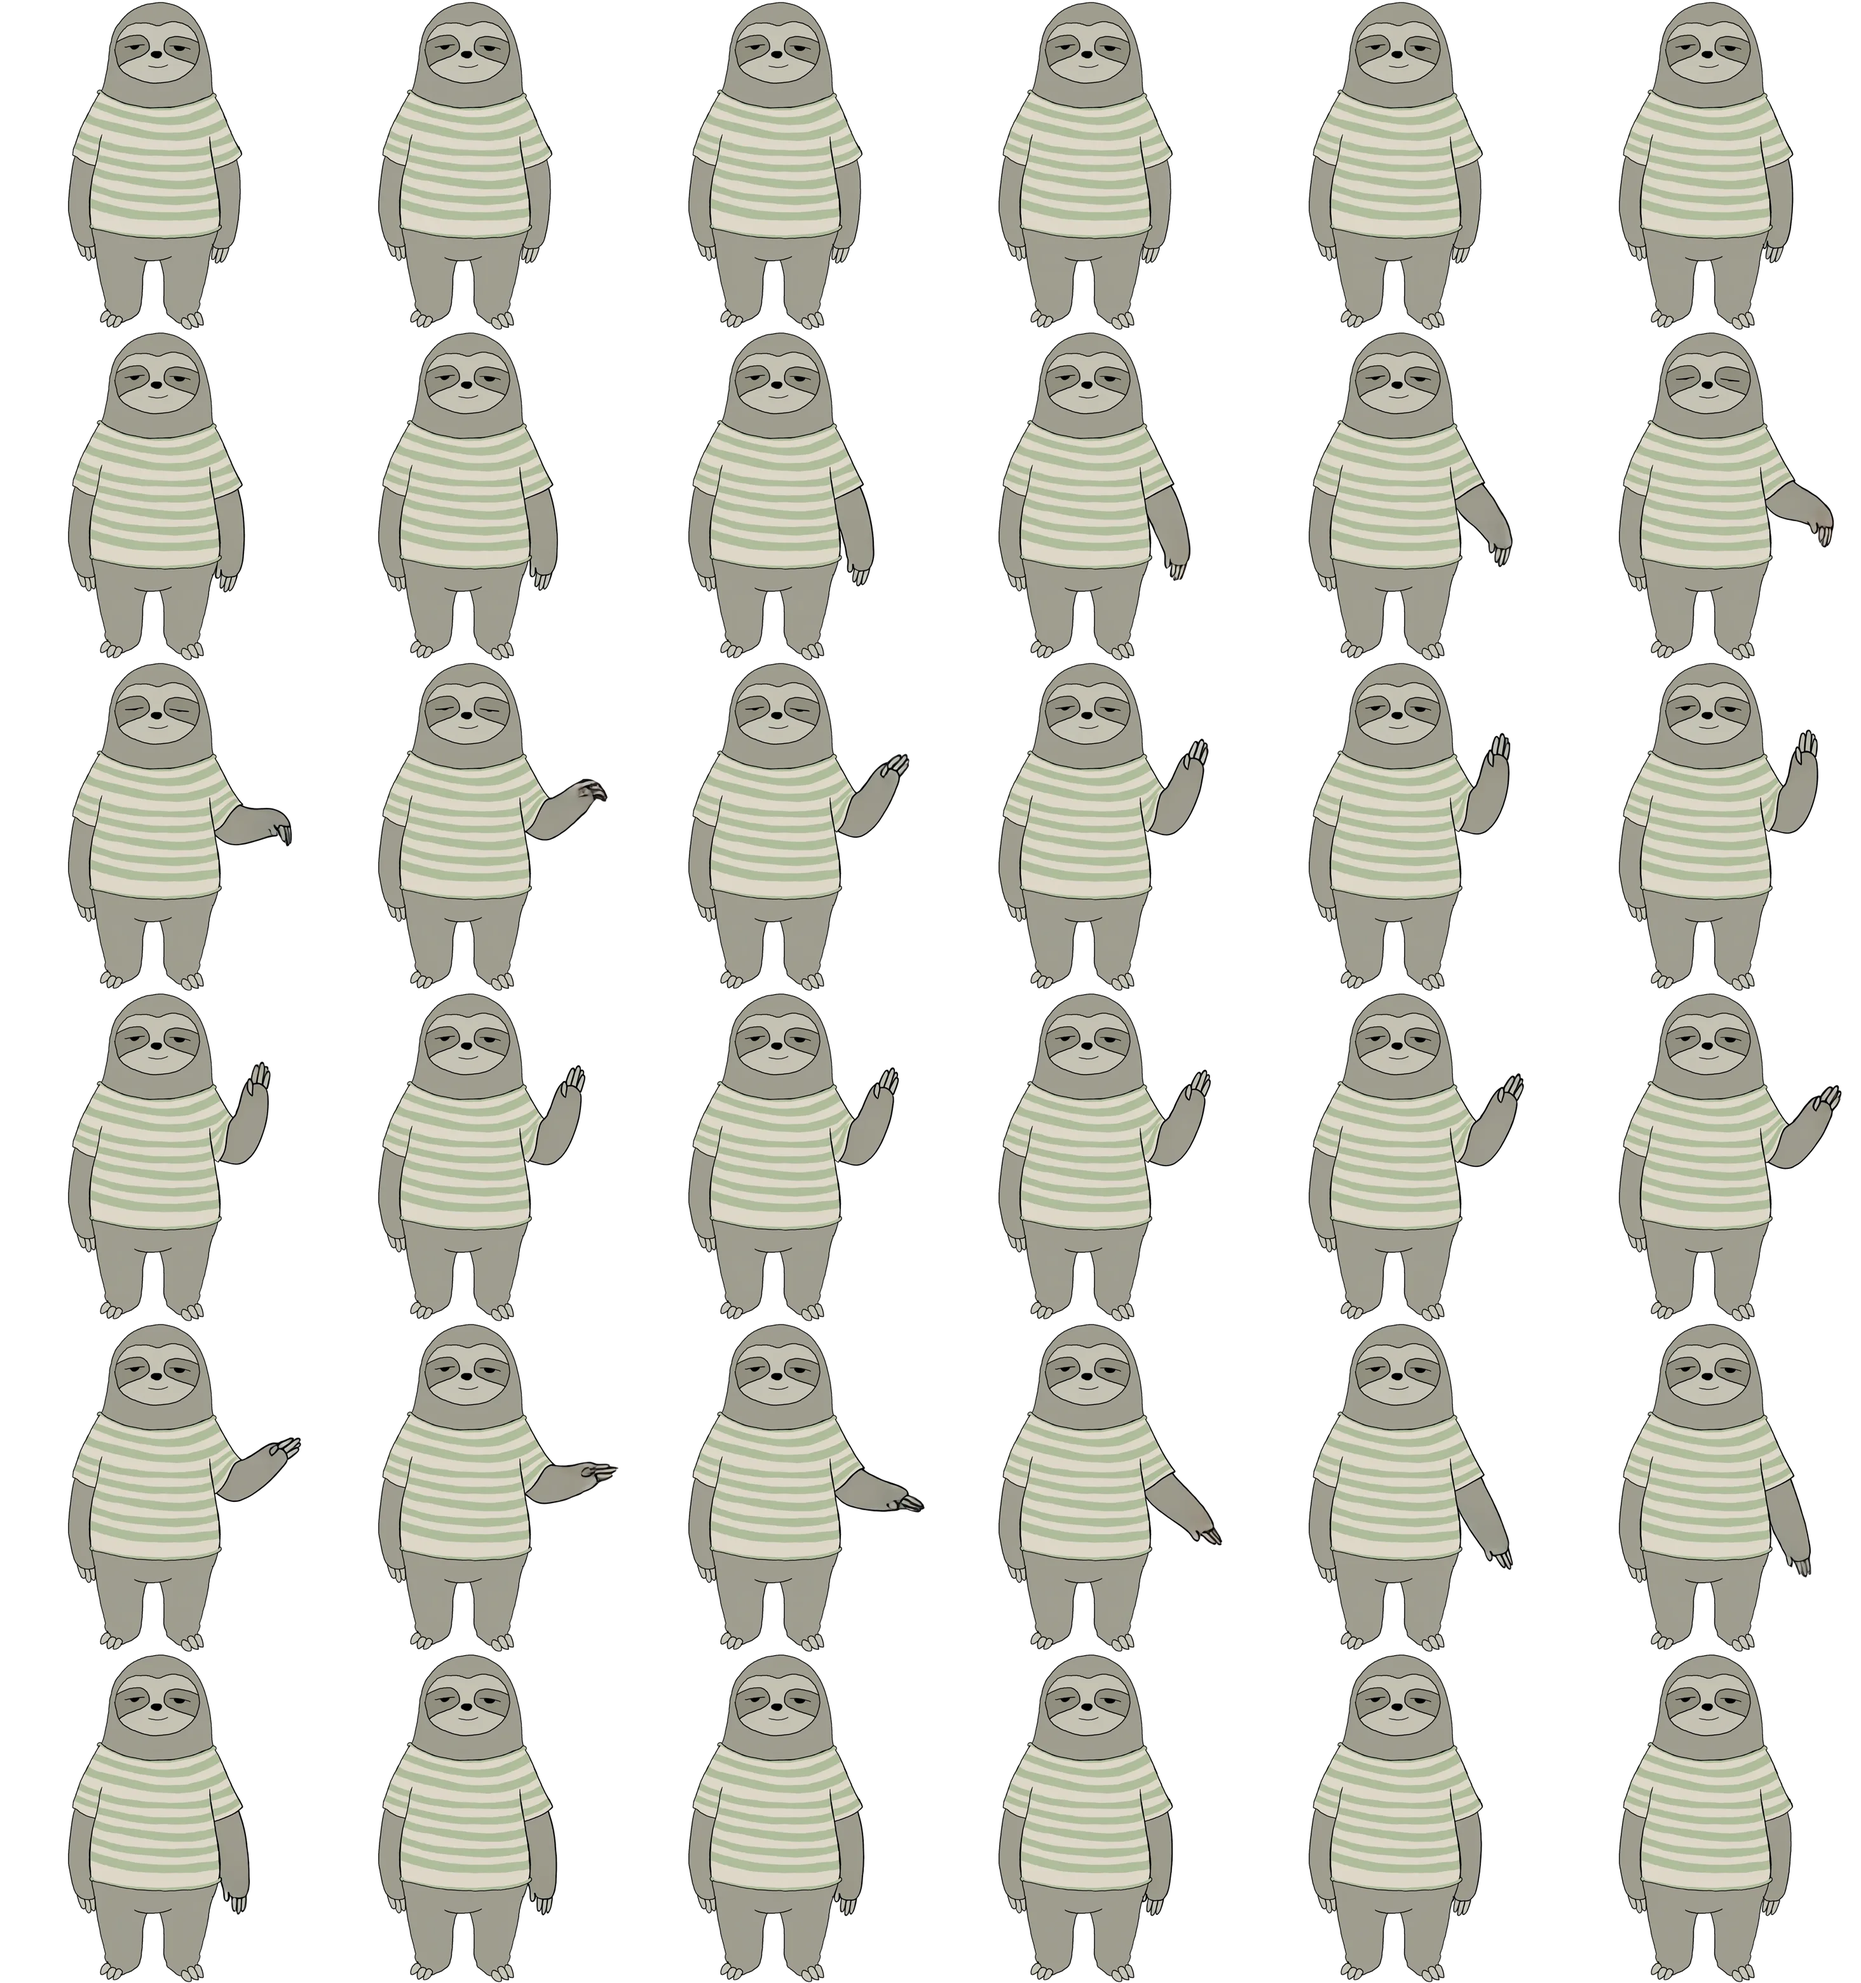
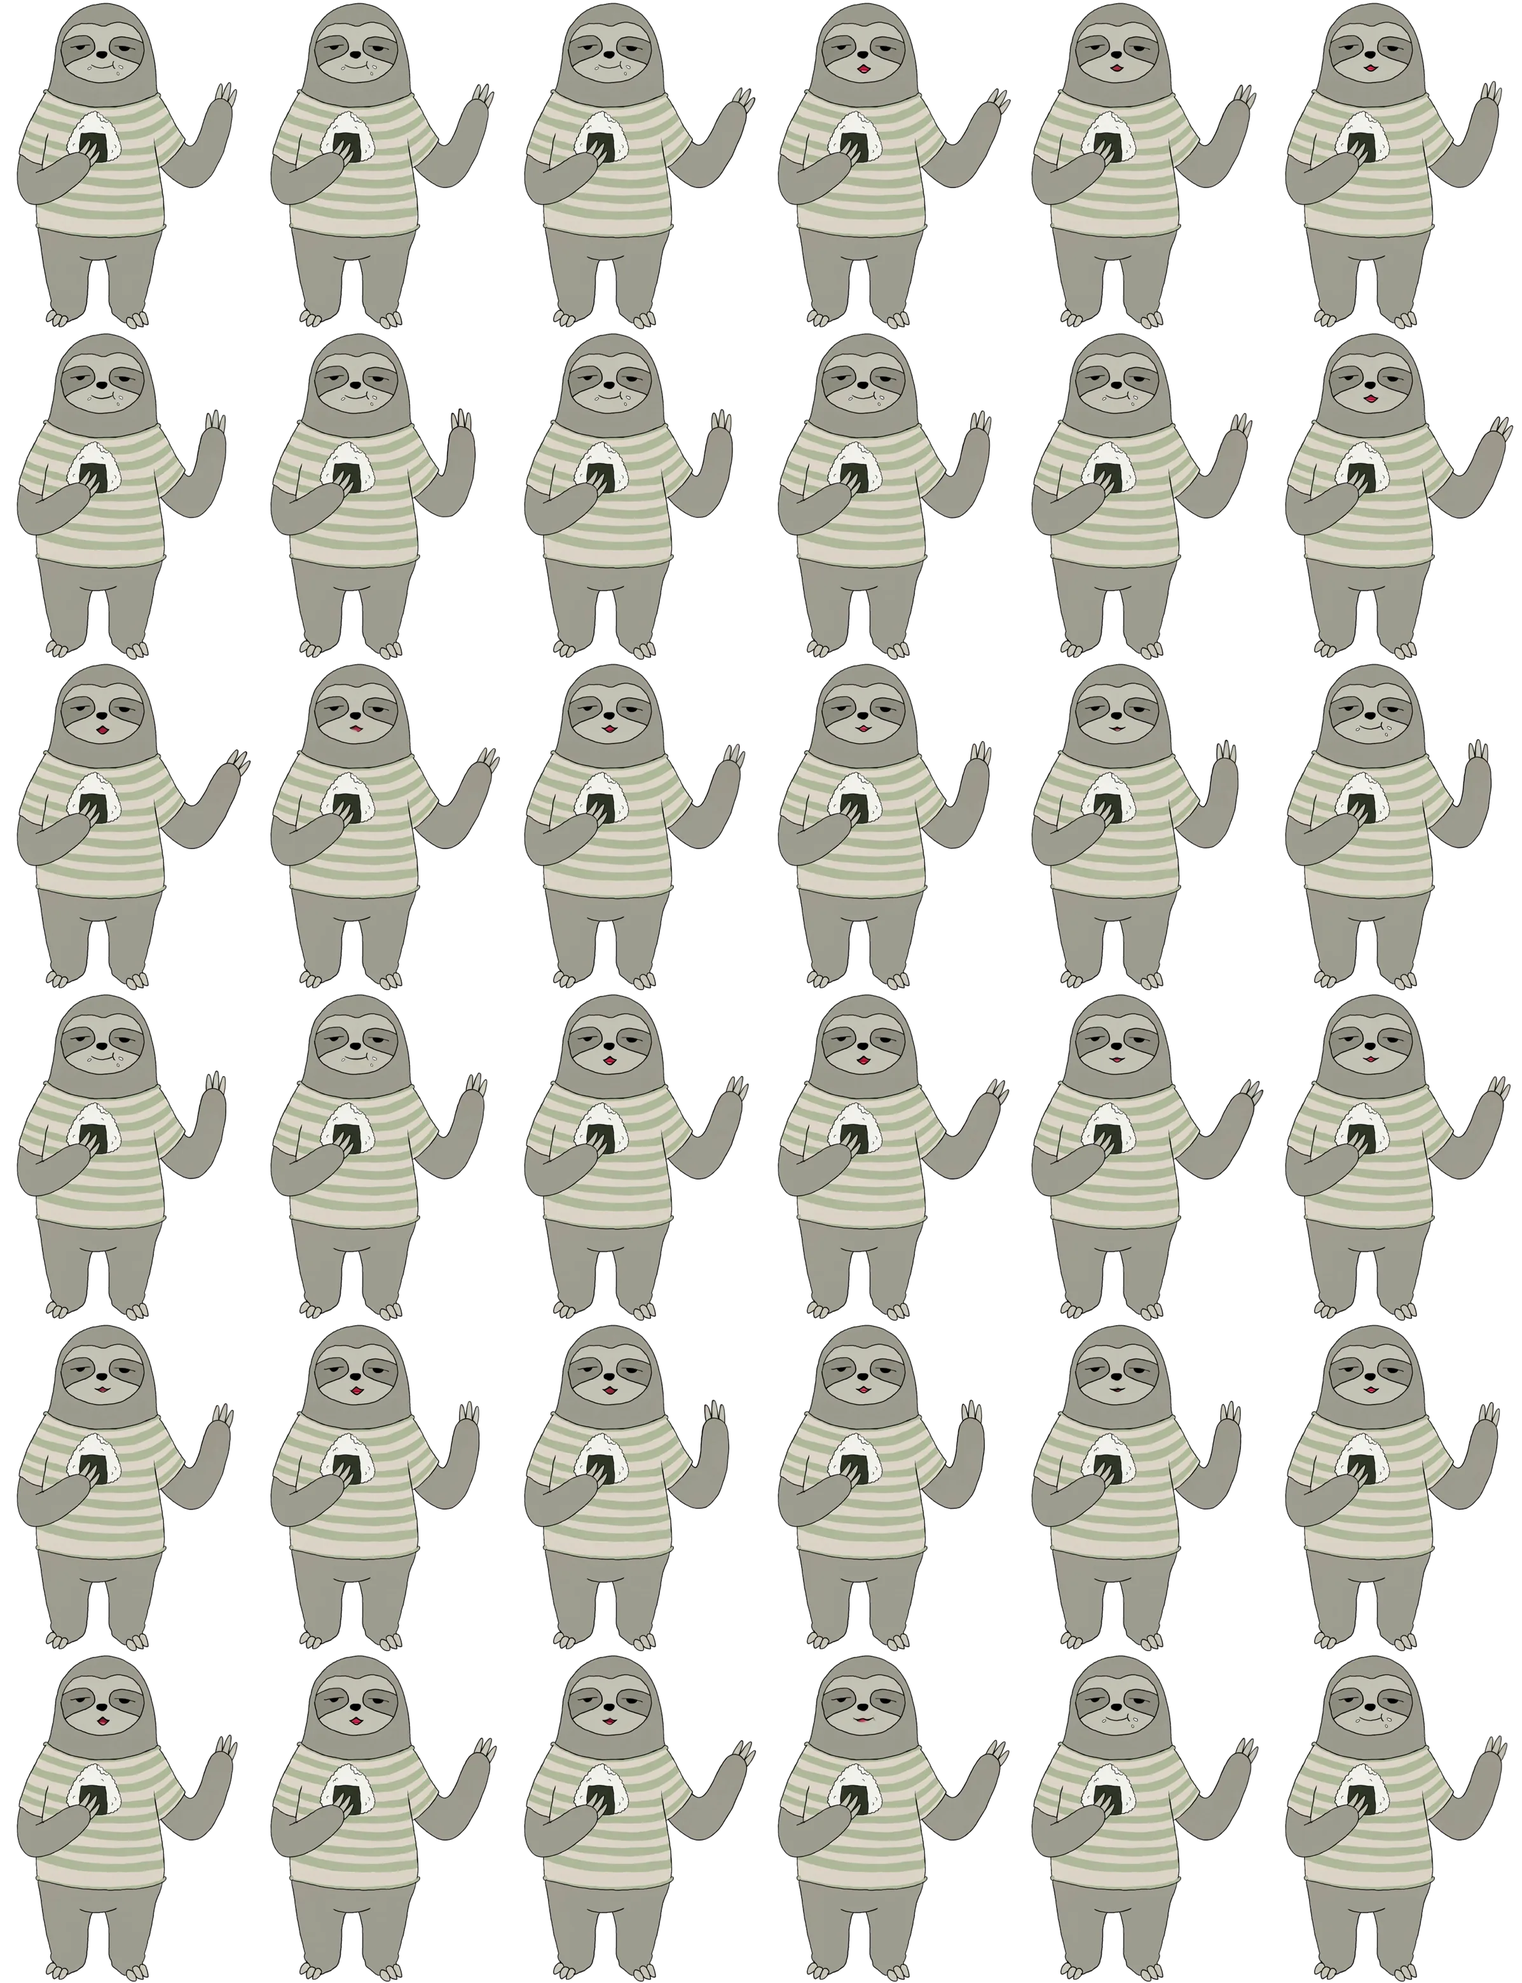
첫 화면 보늘 주먹밥 들고 인사, 장면 속 보늘 크게
- 첫 화면 보늘: 한 손에 주먹밥을 들고 다른 손으로 천천히 인사하며 오물오물 (새 자세·동작)
- 이웃 장면 보늘을 더 크게 (장면 높이의 46% → 62%)

Claude-Session: https://claude.ai/code/session_01Pmwfgxf9UDZgRtw85Z5VnG

diff --git a/index.html b/index.html
@@ -472,10 +472,10 @@ const igSvg='<svg viewBox="0 0 24 24" aria-hidden="true"><path fill="currentColo
 const ytSvg='<svg viewBox="0 0 24 24" aria-hidden="true"><path fill="currentColor" d="M23 7.2a3 3 0 00-2.1-2.1C19 4.6 12 4.6 12 4.6s-7 0-8.9.5A3 3 0 001 7.2 31 31 0 00.5 12a31 31 0 00.5 4.8 3 3 0 002.1 2.1c1.9.5 8.9.5 8.9.5s7 0 8.9-.5a3 3 0 002.1-2.1 31 31 0 00.5-4.8 31 31 0 00-.5-4.8zM9.7 15.1V8.9l5.8 3.1-5.8 3.1z"/></svg>';
 const ANIM2={"kkito": {"n": 36, "w": 136, "h": 520, "cols": 6}, "boneul": {"n": 36, "w": 464, "h": 520, "cols": 6}, "migae": {"n": 36, "w": 678, "h": 520, "cols": 6}, "ramda": {"n": 36, "w": 312, "h": 520, "cols": 6}, "lachilchin": {"n": 36, "w": 303, "h": 520, "cols": 6}, "bookgeo": {"n": 36, "w": 494, "h": 520, "cols": 6}};
 /* 발 위치: [가운데 %, 발 폭 %] — 스프라이트 첫 프레임 바닥 5%에서 잰 값 */
-const FOOT={"kkito":[43.7,33.8],"boneul":[48.9,33.4],"migae":[74.1,27.9],"ramda":[33.3,20.8],"lachilchin":[44.5,44.2],"bookgeo":[50.3,74.9]};
+const FOOT={"kkito":[43.7,33.8],"boneul":[38.2,40.4],"migae":[74.1,27.9],"ramda":[33.3,20.8],"lachilchin":[44.5,44.2],"bookgeo":[50.3,74.9]};
 const FOOT2={"kkito":[37.5,57.4],"boneul":[49.7,64.0],"migae":[69.5,26.8],"ramda":[27.1,29.2],"lachilchin":[44.2,46.2],"bookgeo":[50.3,86.8]};
 const shdH=f=>`<i class="shd" aria-hidden="true" style="left:${f[0]}%;width:${Math.max(f[1]*1.35,18)}%"></i>`;
-const ANIM={"kkito": {"n": 36, "w": 231, "h": 520, "cols": 6}, "boneul": {"n": 36, "w": 488, "h": 520, "cols": 6}, "migae": {"n": 36, "w": 509, "h": 520, "cols": 6}, "ramda": {"n": 36, "w": 432, "h": 520, "cols": 6}, "lachilchin": {"n": 36, "w": 317, "h": 520, "cols": 6}, "bookgeo": {"n": 36, "w": 577, "h": 520, "cols": 6}};
+const ANIM={"kkito": {"n": 36, "w": 231, "h": 520, "cols": 6}, "boneul": {"n": 36, "w": 399, "h": 520, "cols": 6}, "migae": {"n": 36, "w": 509, "h": 520, "cols": 6}, "ramda": {"n": 36, "w": 432, "h": 520, "cols": 6}, "lachilchin": {"n": 36, "w": 317, "h": 520, "cols": 6}, "bookgeo": {"n": 36, "w": 577, "h": 520, "cols": 6}};
 /* 캐논·확정 보드 기준. 임시 = 은녕 확인 필요 */
 const P=[
  {id:"lachilchin",ko:"라칠친할머니",en:"LACHILCHIN",mod:"동네 어르신",h:53,hi:"그래~ 내 얘기 들어볼래?",pose:"tea",bg:"granny",side:"R",where:"당근빌라, 할머니 집",
@@ -656,7 +656,7 @@ relsvg.querySelectorAll(".node").forEach(n=>{n.addEventListener("click",()=>relF
 /* ---------- 3. 이웃 장면 ---------- */
 document.querySelector("[data-scenes]").innerHTML=ORDER.map(id=>{const p=by[id];const actorSide=p.side==="R"?"right:14%":"left:14%";
   /* 장면 속 키 (11/3 은녕 의견: 끼토·보늘 크게, 람다 살짝 크게, 미개 조금 작게) */
-  const ah={kkito:68,boneul:46,ramda:46,lachilchin:37,bookgeo:44,migae:25}[id];
+  const ah={kkito:68,boneul:62,ramda:46,lachilchin:37,bookgeo:44,migae:25}[id];
   return `<section class="scene ${p.side==="R"?"L":"R"}" id="s-${id}" data-scene="${id}" style="--ax:${p.side==="R"?"68%":"32%"}">
    <div class="pic"><div class="bg" data-bgsrc="img/scene_${p.bg}.webp" style="--bpx:${p.side==="R"?"64%":"36%"}"></div>
      <div class="actor" style="height:${ah}%;${actorSide}">${shdH(FOOT2[id])}<canvas data-act="${id}" width="${ANIM2[id].w}" height="${ANIM2[id].h}" role="img" aria-label="${esc(p.ko)}"></canvas></div></div>
